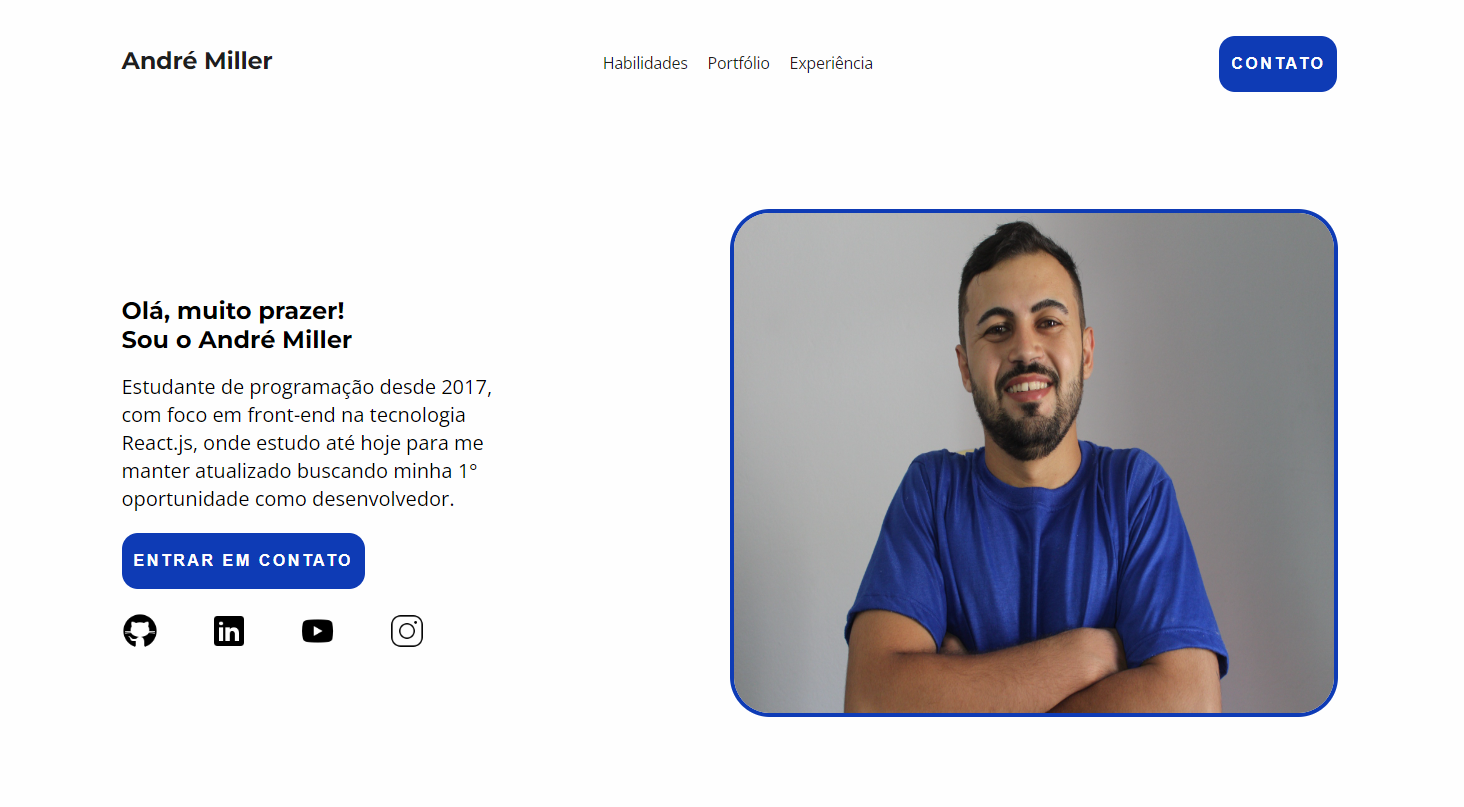
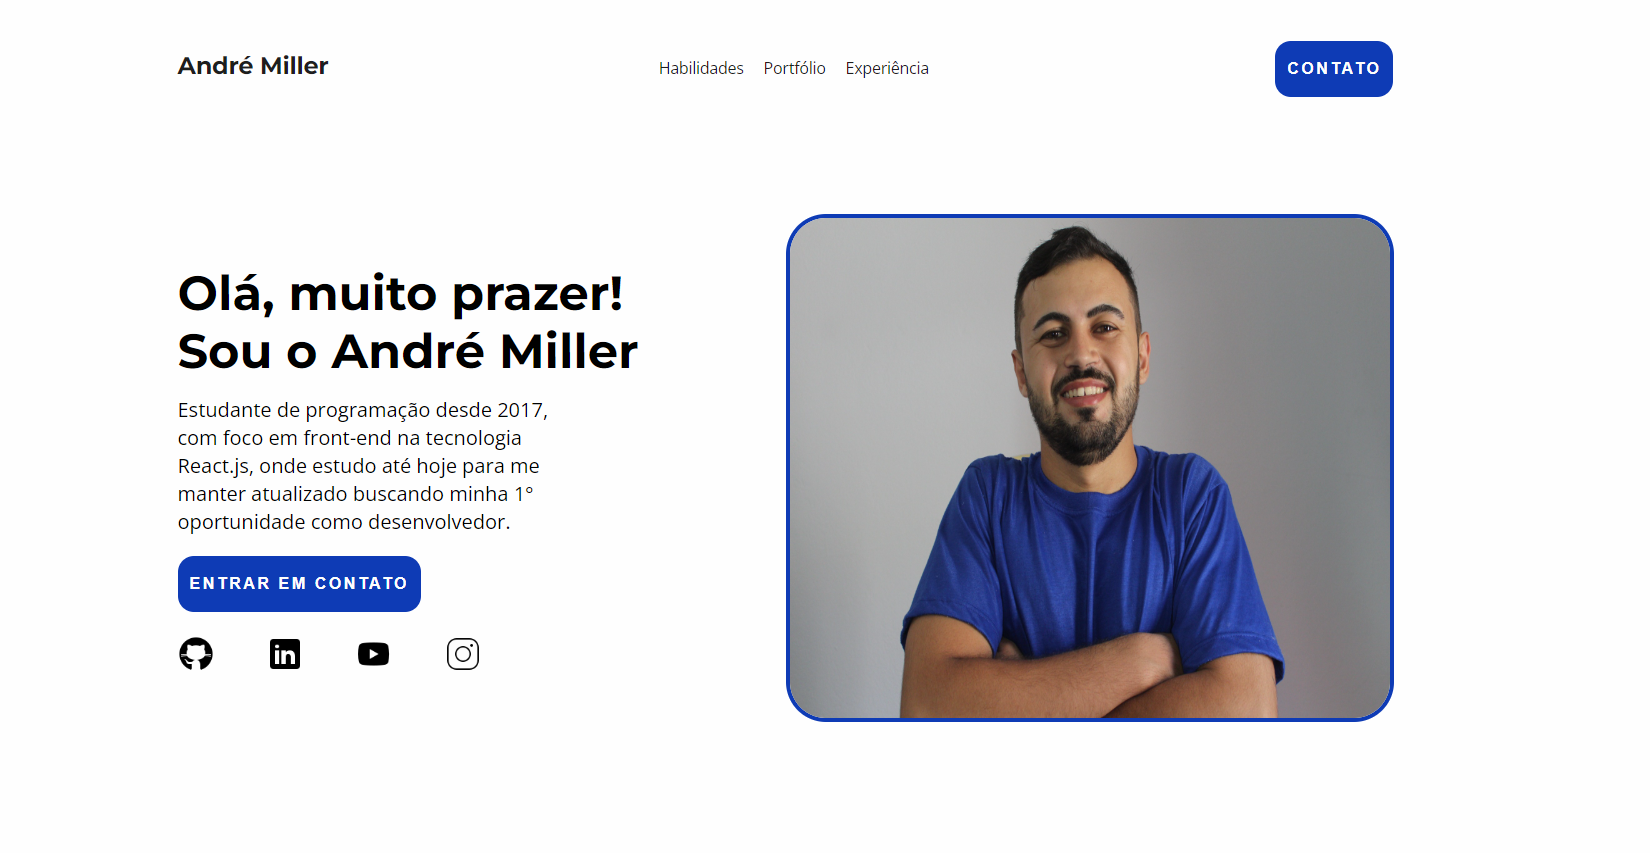
updating preview

diff --git a/styles.css b/styles.css
@@ -152,7 +152,11 @@ footer{
     height: 594px;
     padding-top: 64px;
 }
-
+.hero-info-title {
+    font-size: 48px;
+    font-weight: bold;
+    margin: 0px;
+  }
 .hero-info-subtitle{
     font-size: 20px;
     line-height: 28px;
